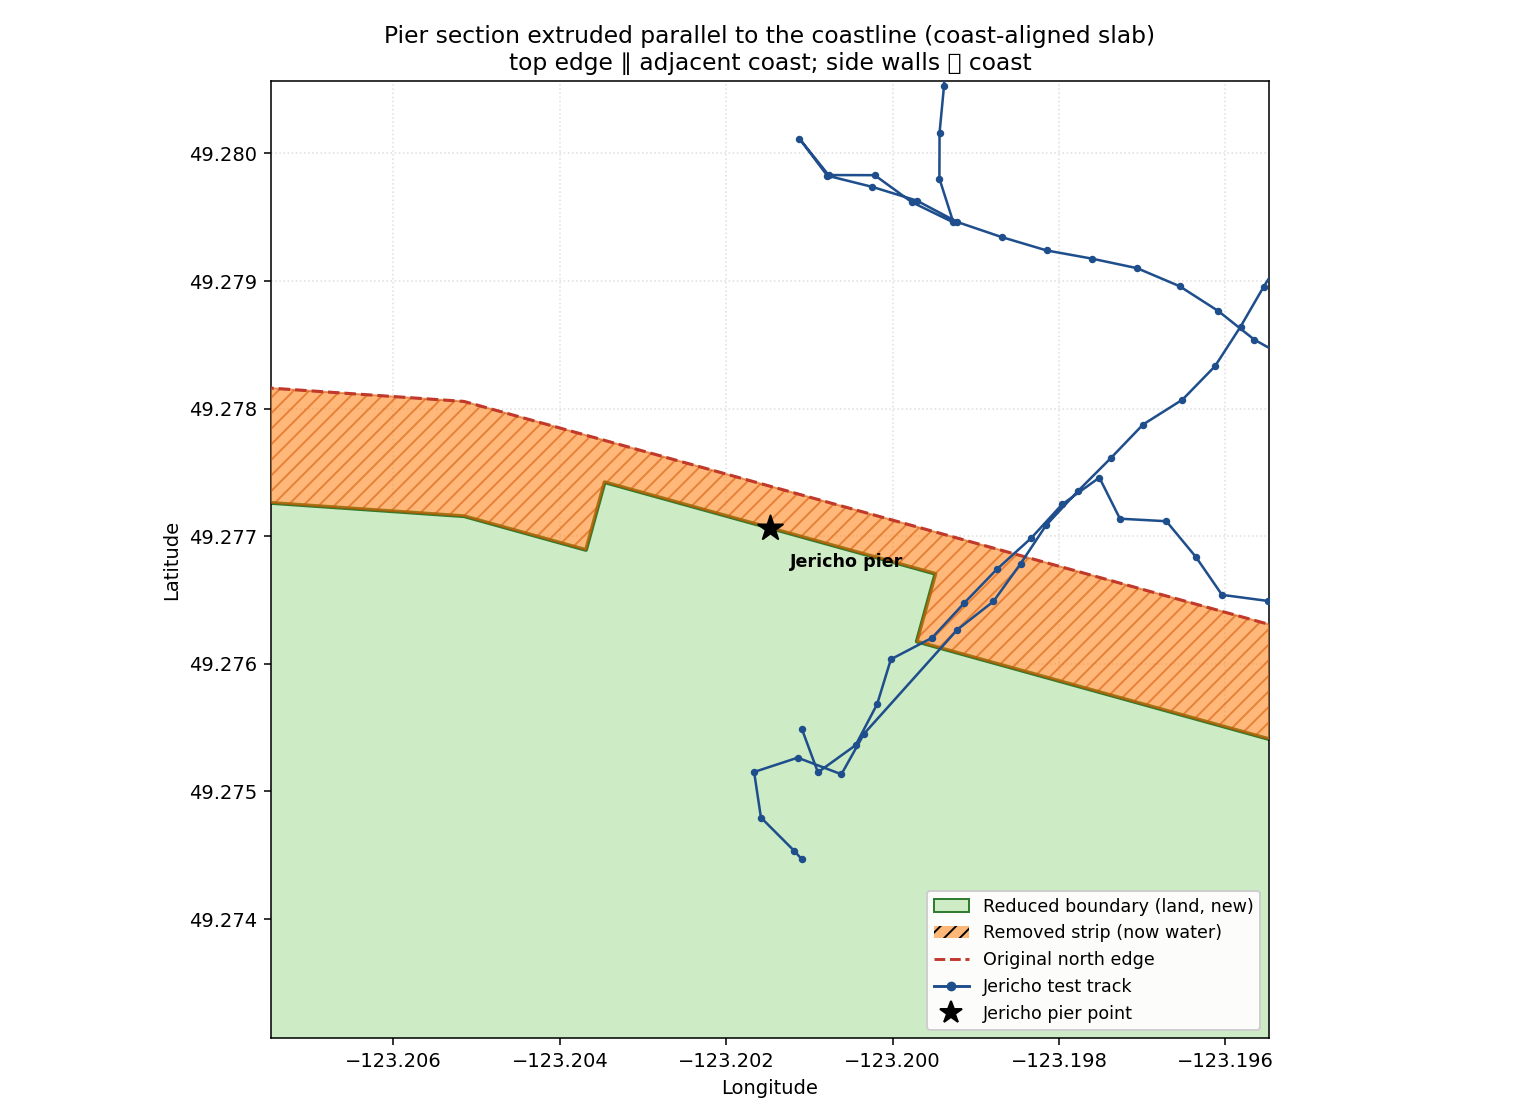
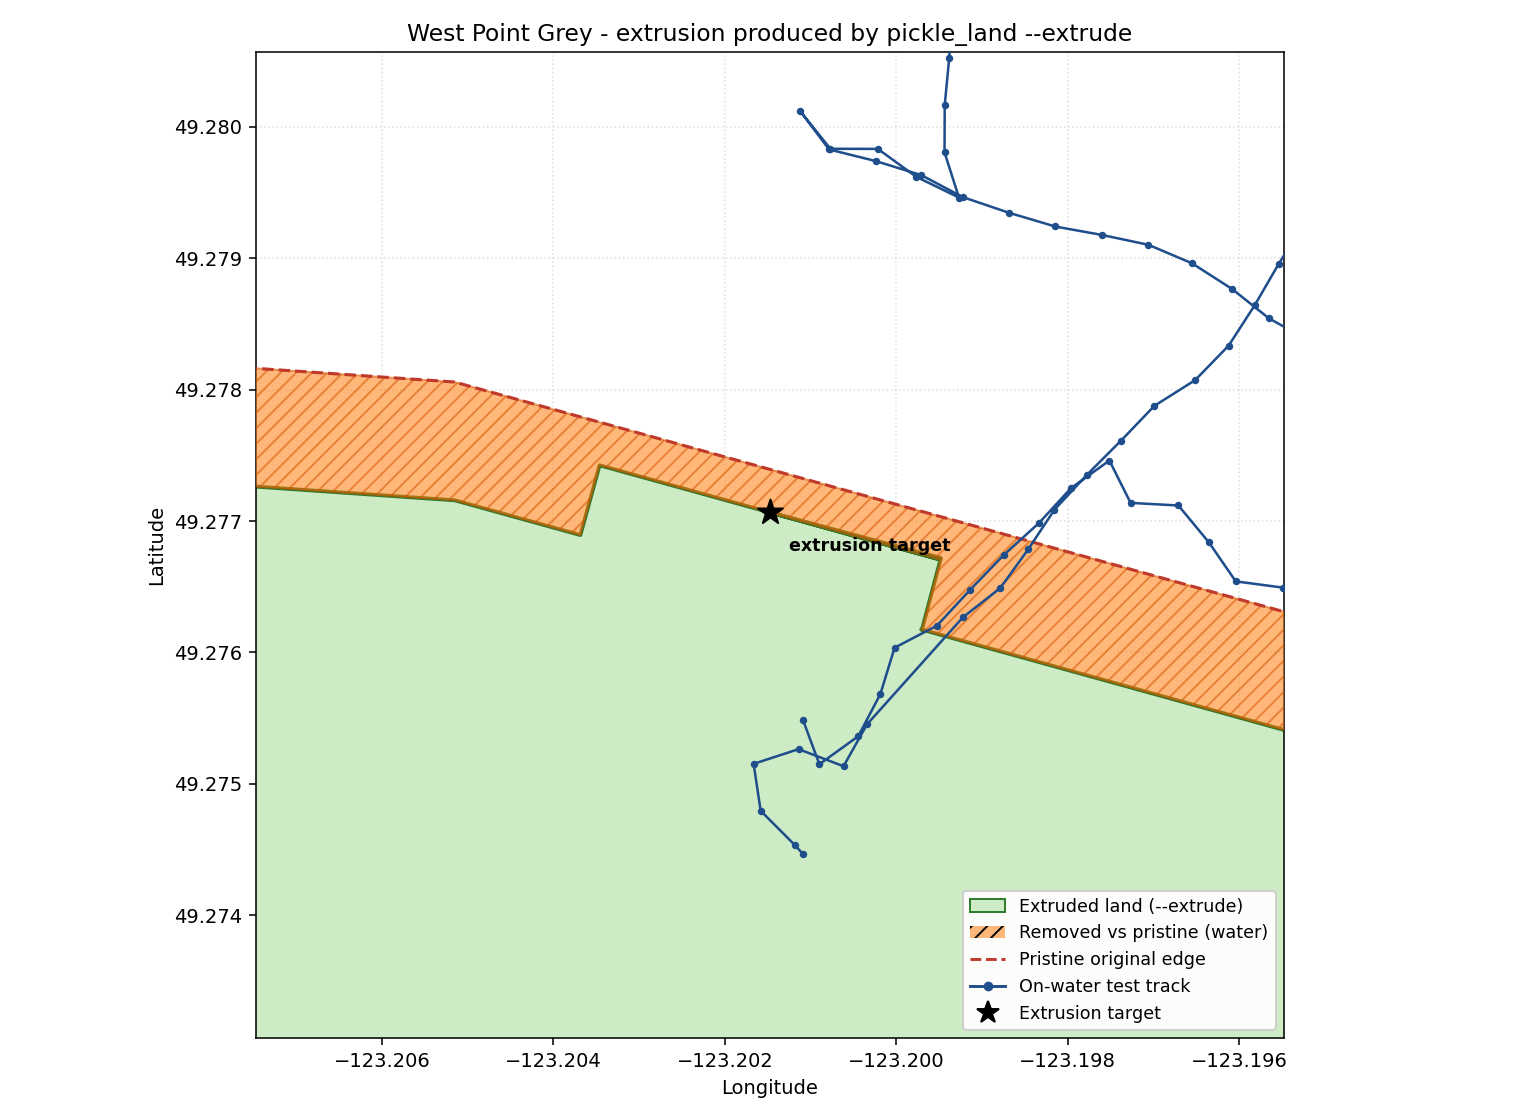
Added the remaining image plot and extrusion

diff --git a/src/local_pathfinding/land/pickle_land_data.py b/src/local_pathfinding/land/pickle_land_data.py
@@ -19,6 +19,11 @@ UTM_10N = pyproj.CRS("EPSG:26910")
 LAND_DIR = os.path.dirname(os.path.abspath(__file__))
 SHP_DIR = os.path.join(LAND_DIR, "shp")
 PKL_PATH = os.path.join(LAND_DIR, "pkl", "land.pkl")
+# Pristine (pre-edit) on-water boundaries and the test plan used as overlays in the
+# extrusion verification plot.
+PRISTINE_SHP = os.path.join(SHP_DIR, "local-area-boundary_backup.shp")
+TEST_PLAN_PATH = os.path.join(LAND_DIR, "..", "test_plans", "jericho_on_water_test.yaml")
+EXTRUSION_PLOT_PATH = os.path.join(LAND_DIR, "west_point_grey_pier_parallel.png")
 
 # Land sources: the full OSM Pacific coastline for production, and the Vancouver
 # neighbourhood boundaries used as mock land for on-water test plans.
@@ -26,6 +31,10 @@ SHP_SOURCES = {
     "production": "complete_land_data.shp",
     "on_water": "local-area-boundary.shp",
 }
+
+# Jericho Pier (lat, lon) — extrude the nearest land mass out to here so on-water test plans
+# have land coverage up to the pier.
+JERICHO_PIER = (49.277065, -123.201474)
 
 
 def dump_pkl(object: Any, file_path: str):
@@ -117,15 +126,19 @@ def extrude_edge_to_point(
     return make_valid(result).buffer(0)
 
 
-def pickle_land(source: str = "production"):
+def pickle_land(source: str = "production", extrude_to: tuple = None):
     """Generates a land dataset and stores it in PKL format for long term storage on disk.
 
     Land data is saved to pkl/land.pkl.
 
     Args:
         source (str): Which land source to pickle. "production" uses the full OSM Pacific
-            coastline; "test" uses the Vancouver neighbourhood boundaries (mock land for
+            coastline; "on_water" uses the Vancouver neighbourhood boundaries (mock land for
             on-water test plans).
+        extrude_to (tuple[float, float] | None): Optional (lat, lon) point to extrude the
+            nearest land mass out to (e.g. the Jericho Pier) before pickling. Only the polygon
+            whose edge is closest to the point is extruded; all other land is left unchanged
+            and added back in by the union. If None, no extrusion is applied.
 
     Raises:
         ValueError: If source is not a known land source.
@@ -134,9 +147,17 @@ def pickle_land(source: str = "production"):
         raise ValueError(f"unknown source {source!r}; expected one of {sorted(SHP_SOURCES)}")
 
     gdf = gpd.read_file(os.path.join(SHP_DIR, SHP_SOURCES[source]))
+    polygons = list(gdf["geometry"])
+
+    if extrude_to is not None:
+        target_lat, target_lon = extrude_to
+        target = Point(target_lon, target_lat)
+        # Extrude only the land mass nearest the target; the rest is restored by the union below.
+        nearest = min(range(len(polygons)), key=lambda i: polygons[i].distance(target))
+        polygons[nearest] = extrude_edge_to_point(polygons[nearest], target_lat, target_lon)
 
     # Dissolve all polygons into one geometry and repair any invalid/overlapping rings.
-    land = unary_union(list(gdf["geometry"])).buffer(0)
+    land = unary_union(polygons).buffer(0)
 
     # Downstream code expects a MultiPolygon, even if the union collapses to a single Polygon.
     if land.geom_type == "Polygon":
@@ -144,6 +165,97 @@ def pickle_land(source: str = "production"):
 
     dump_pkl(land, PKL_PATH)
     print("Land data pickled to", PKL_PATH + f" (land source: {source})")
+
+
+def plot_extrusion(source: str, target: tuple, out_path: str = EXTRUSION_PLOT_PATH):
+    """Render a verification figure of the extrusion result and save it to out_path.
+
+    Replays the extrusion exactly as pickle_land applies it (the polygon nearest the target is
+    extruded), then plots the extruded land against the pristine original coastline and the
+    on-water test track so the result can be eyeballed.
+
+    Requires matplotlib and pyyaml, which are not runtime dependencies of this package, so the
+    plot is skipped with a message if either is missing.
+
+    Args:
+        source (str): Land source to plot (see SHP_SOURCES).
+        target (tuple[float, float]): (lat, lon) point the land was extruded out to.
+        out_path (str): Where to write the PNG.
+    """
+    try:
+        import matplotlib
+
+        matplotlib.use("Agg")
+        import yaml
+        from matplotlib import pyplot as plt
+        from matplotlib.lines import Line2D
+        from matplotlib.patches import Patch
+    except ImportError as e:
+        print(f"skipping extrusion plot; install matplotlib and pyyaml to enable it ({e})")
+        return
+
+    target_lat, target_lon = target
+    point = Point(target_lon, target_lat)
+
+    # Same selection + extrusion that pickle_land performs.
+    gdf = gpd.read_file(os.path.join(SHP_DIR, SHP_SOURCES[source]))
+    polygons = list(gdf["geometry"])
+    nearest = min(range(len(polygons)), key=lambda i: polygons[i].distance(point))
+    name = gdf.iloc[nearest]["Name"]
+    extruded = extrude_edge_to_point(polygons[nearest], target_lat, target_lon)
+
+    # Pristine original edge of the same land mass, and the land removed relative to it.
+    pristine = gpd.read_file(PRISTINE_SHP)
+    original = pristine[pristine["Name"] == name].geometry.iloc[0]
+    removed = make_valid(original.difference(extruded))
+
+    with open(TEST_PLAN_PATH) as f:
+        waypoints = yaml.safe_load(f)["global_path"]["waypoints"]
+    track_lon = [w["longitude"] for w in waypoints]
+    track_lat = [w["latitude"] for w in waypoints]
+
+    fig, ax = plt.subplots(figsize=(11, 8))
+    gpd.GeoSeries([extruded]).plot(ax=ax, facecolor="#cdebc5", edgecolor="#2c7a2c", lw=2, zorder=2)
+    gpd.GeoSeries([removed]).plot(
+        ax=ax, facecolor="#ff7f0e", alpha=0.55, edgecolor="#d35400", hatch="///", zorder=3
+    )
+    gpd.GeoSeries([original.boundary]).plot(ax=ax, color="#c0392b", lw=1.6, ls="--", zorder=4)
+    ax.plot(track_lon, track_lat, "-", color="#1f4e8c", lw=1.3, zorder=5)
+    ax.scatter(track_lon, track_lat, s=8, color="#1f4e8c", zorder=6)
+    ax.scatter(target_lon, target_lat, s=180, marker="*", color="black", zorder=7)
+    ax.annotate(
+        "extrusion target",
+        (target_lon, target_lat),
+        textcoords="offset points",
+        xytext=(10, -20),
+        fontsize=9,
+        fontweight="bold",
+    )
+    ax.set_xlim(target_lon - 0.006, target_lon + 0.006)
+    ax.set_ylim(target_lat - 0.004, target_lat + 0.0035)
+    ax.set_aspect(1 / 0.652)  # rough lon/lat aspect at this latitude so distances look right
+    ax.legend(
+        handles=[
+            Patch(facecolor="#cdebc5", edgecolor="#2c7a2c", label="Extruded land (--extrude)"),
+            Patch(
+                facecolor="#ff7f0e", alpha=0.55, hatch="///", label="Removed vs pristine (water)"
+            ),
+            Line2D([0], [0], color="#c0392b", ls="--", label="Pristine original edge"),
+            Line2D([0], [0], color="#1f4e8c", marker="o", ms=4, label="On-water test track"),
+            Line2D([0], [0], color="black", marker="*", ls="", ms=12, label="Extrusion target"),
+        ],
+        loc="lower right",
+        fontsize=9,
+        framealpha=0.95,
+    )
+    ax.set_title(f"{name} - extrusion produced by pickle_land --extrude", fontsize=12)
+    ax.set_xlabel("Longitude")
+    ax.set_ylabel("Latitude")
+    ax.grid(True, ls=":", alpha=0.4)
+    fig.tight_layout()
+    fig.savefig(out_path, dpi=140)
+    plt.close(fig)
+    print("Extrusion verification plot saved to", out_path)
 
 
 if __name__ == "__main__":
@@ -157,20 +269,11 @@ if __name__ == "__main__":
     parser.add_argument(
         "--extrude",
         action="store_true",
-        help="Whether to extrude the land out to the Jericho Pier for better on-water test plan coverage.",
+        help="Whether to extrude the land out to a reference for on-water test.",
     )
 
     args = parser.parse_args()
+    pickle_land(args.source, extrude_to=JERICHO_PIER if args.extrude else None)
     if args.extrude:
-        # Extrude the land out to the Jericho Pier (target lat/lon)
-        # for better on-water test plan coverage.
-        # TODO: Incomplete
-        extrude_edge_to_point(
-            polygon=gpd.read_file(os.path.join(SHP_DIR, SHP_SOURCES[args.source])).geometry.iloc[
-                0
-            ],
-            target_lat=49.2885,
-            target_lon=-123.1610,
-        )
-    else:
-        pickle_land(args.source)
+        # Save a figure of the extrusion result so the output can be verified.
+        plot_extrusion(args.source, JERICHO_PIER)

diff --git a/src/local_pathfinding/land/README.md b/src/local_pathfinding/land/README.md
@@ -34,4 +34,8 @@ To create the land mass for either on_water testing or launch, run the following
 
 - `python3 src/local_pathfinding/land/pickle_land_data.py --source production`, run this before launch
 - `python3 src/local_pathfinding/land/pickle_land_data.py --source on_water`, run this before on water testing at Jericho Beach
+
+If you want to add the extrusion (necessary for on water testing):
+
+- `python3 src/local_pathfinding/land/pickle_land_data.py --source on_water --extrude`
 <!-- markdownlint-enable MD013 -->